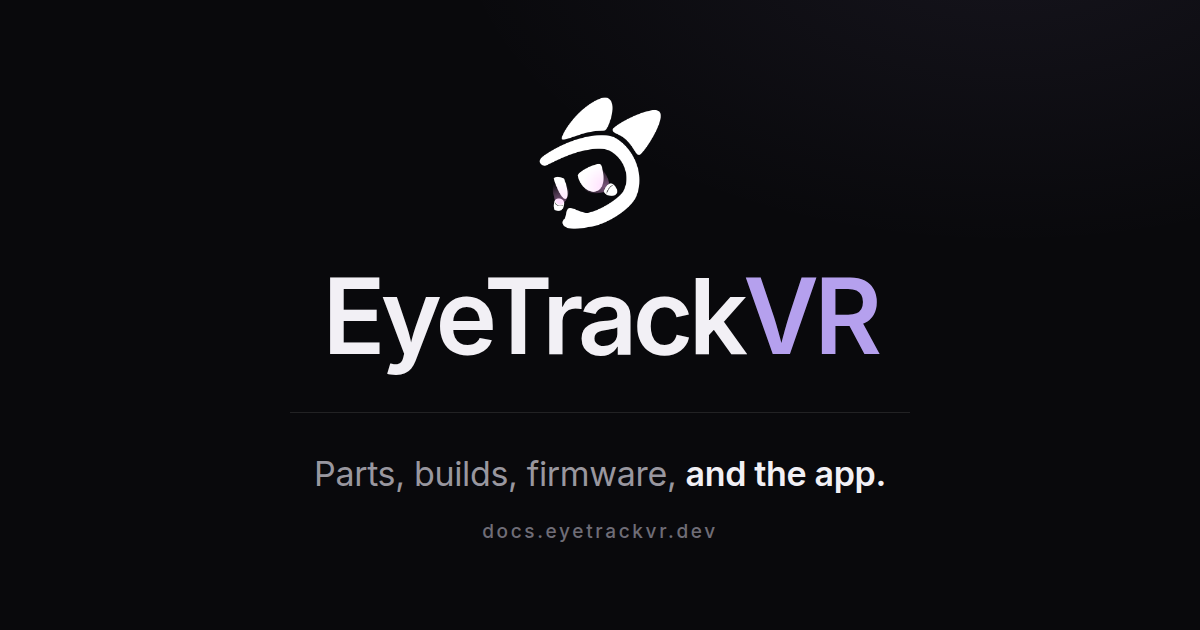
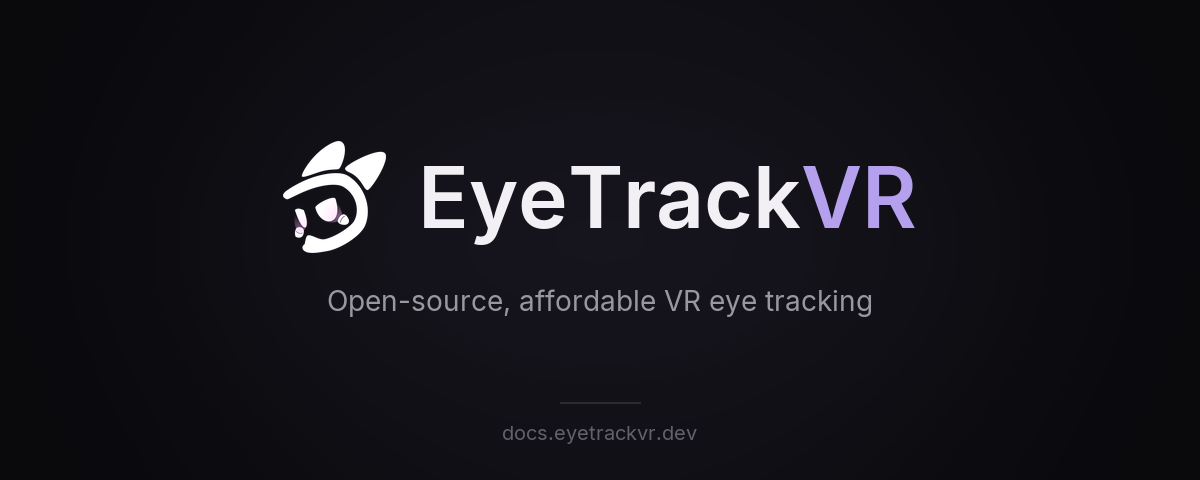
docs: update embed

Changed region(s): [[0.2158, 0.1562, 0.7708, 0.6562], [0.2467, 0.7188, 0.74, 0.7812], [0.4008, 0.8125, 0.5858, 0.9375]]

diff --git a/vitepress/docs/.vitepress/seo.js b/vitepress/docs/.vitepress/seo.js
@@ -224,7 +224,7 @@ export function transformHead({ pageData }) {
     ['meta', { property: 'og:description', content: description }],
     ['meta', { property: 'og:image', content: image }],
     ['meta', { property: 'og:image:width', content: '1200' }],
-    ['meta', { property: 'og:image:height', content: '630' }],
+    ['meta', { property: 'og:image:height', content: '480' }],
     ['meta', { property: 'og:image:alt', content: `EyeTrackVR: ${SITE.tagline}` }],
     ['meta', { name: 'twitter:card', content: 'summary_large_image' }],
     ['meta', { name: 'twitter:title', content: ogTitle }],

diff --git a/vitepress/scripts/make_og_image.py b/vitepress/scripts/make_og_image.py
@@ -1,13 +1,18 @@
 #!/usr/bin/env python3
 """Regenerate the social share card (docs/src/pages/public/og-image.png).
 
-1200x630 is the size Twitter/X and Discord render at, and the docs advertise
-`twitter:card: summary_large_image`, so this file must exist - without it every
-shared docs link renders as a blank card.
+The card is a short 1200x480 banner (2.5:1) so Discord/Slack embeds stay
+compact; the lockup is centred so Twitter/X's 1.91:1 crop never clips it.
+If you change W/H, update `og:image:width/height` in docs/.vitepress/seo.js.
+
+Fonts: Inter is preferred (matches the site). Point INTER_DIR at a folder
+holding Inter-*.ttf/otf (e.g. the extras/ttf folder of the Inter release zip),
+or install Inter system-wide; otherwise Segoe UI / Helvetica are used.
 
 Usage:  python3 scripts/make_og_image.py
 """
 
+import os
 from pathlib import Path
 
 from PIL import Image, ImageDraw, ImageFilter, ImageFont
@@ -16,105 +21,103 @@ HERE = Path(__file__).resolve().parent
 OUT = HERE.parent / "docs" / "src" / "pages" / "public" / "og-image.png"
 LOGO = HERE.parent / "docs" / "src" / "pages" / "public" / "logo_no_bg.png"
 
-W, H = 1200, 630
+W, H = 1200, 480
 
-ACCENT = (171, 90, 199)  # #ab5ac7, the docs accent purple
-PINK = (242, 166, 224)
-TEXT = (244, 242, 248)
-MUTED = (176, 168, 192)
+# theme.css tokens
+BG = (9, 9, 12)  # --etvr-bg
+LINE = (43, 43, 50)  # --etvr-line
+ACCENT = (181, 160, 238)  # --etvr-accent
+TEXT = (242, 240, 245)  # --etvr-text
+MUTED = (153, 151, 159)  # --etvr-muted
+FAINT = (98, 96, 106)
 
-FONTS = {
-    "black": [("/System/Library/Fonts/Supplemental/Arial Black.ttf", 0)],
-    "bold": [
-        ("/System/Library/Fonts/Avenir Next.ttc", 0),
+INTER_DIRS = [
+    os.environ.get("INTER_DIR", ""),
+    str(Path.home() / "Library/Fonts"),
+    "/Library/Fonts",
+    "/usr/share/fonts/opentype/inter",
+    "/usr/share/fonts/truetype/inter",
+    str(Path(os.environ.get("LOCALAPPDATA", "")) / "Microsoft/Windows/Fonts"),
+    "C:/Windows/Fonts",
+]
+
+FALLBACKS = {
+    "SemiBold": [
+        ("C:/Windows/Fonts/seguisb.ttf", 0),
         ("/System/Library/Fonts/HelveticaNeue.ttc", 1),
     ],
-    "regular": [
-        ("/System/Library/Fonts/SFNS.ttf", 0),
+    "Regular": [
+        ("C:/Windows/Fonts/segoeui.ttf", 0),
         ("/System/Library/Fonts/Helvetica.ttc", 0),
     ],
 }
 
 
-def font(kind: str, size: int) -> ImageFont.FreeTypeFont:
-    for path, index in FONTS[kind]:
+def font(weight: str, size: int) -> ImageFont.FreeTypeFont:
+    candidates = [
+        (str(Path(d) / f"Inter-{weight}.{ext}"), 0)
+        for d in INTER_DIRS
+        if d
+        for ext in ("ttf", "otf")
+    ]
+    for path, index in candidates + FALLBACKS[weight]:
         try:
             return ImageFont.truetype(path, size, index=index)
         except OSError:
             continue
-    return ImageFont.load_default()
+    return ImageFont.load_default(size)
 
 
 def background() -> Image.Image:
-    img = Image.new("RGB", (W, H))
-    top, bottom = (22, 15, 30), (13, 10, 20)
-    for y in range(H):
-        t = y / H
-        img.paste(tuple(round(a + (b - a) * t) for a, b in zip(top, bottom)), (0, y, W, y + 1))
-    glow = Image.new("RGB", (W, H), (0, 0, 0))
-    draw = ImageDraw.Draw(glow)
-    draw.ellipse((W - 620, -260, W + 320, 520), fill=(58, 26, 82))
-    draw.ellipse((-320, 300, 380, 900), fill=(30, 18, 56))
-    glow = glow.filter(ImageFilter.GaussianBlur(120))
-    return Image.blend(img, Image.blend(img, glow, 0.85), 0.75)
-
-
-def wrap(draw, text, font, max_width):
-    words, lines, line = text.split(), [], ""
-    for word in words:
-        trial = f"{line} {word}".strip()
-        if draw.textlength(trial, font=font) <= max_width:
-            line = trial
-        else:
-            lines.append(line)
-            line = word
-    if line:
-        lines.append(line)
-    return lines
+    img = Image.new("RGB", (W, H), BG)
+    # one faint accent glow behind the lockup, nothing else
+    glow = Image.new("L", (W, H), 0)
+    ImageDraw.Draw(glow).ellipse((W // 2 - 420, H // 2 - 170, W // 2 + 420, H // 2 + 170), fill=255)
+    glow = glow.filter(ImageFilter.GaussianBlur(140)).point(lambda v: v * 0.10)
+    img.paste(Image.new("RGB", (W, H), ACCENT), mask=glow)
+    return img
 
 
 def main() -> None:
     img = background()
     draw = ImageDraw.Draw(img)
 
+    word_font = font("SemiBold", 84)
+    tag_font = font("Regular", 28)
+    url_font = font("Regular", 20)
+
     logo = Image.open(LOGO).convert("RGBA")
-    logo.thumbnail((330, 330), Image.LANCZOS)
-    img.paste(logo, (64, (H - logo.height) // 2), logo)
+    logo = logo.crop(logo.getbbox())
+    logo.thumbnail((112, 112), Image.LANCZOS)
 
-    x = 452
-    max_w = W - x - 64
-    y = 96
+    # wordmark: "EyeTrack" + accent "VR", sitting next to the logo
+    left, right = "EyeTrack", "VR"
+    left_w = draw.textlength(left, font=word_font)
+    word_w = left_w + draw.textlength(right, font=word_font)
+    gap = 32
+    lockup_w = logo.width + gap + word_w
+    x = round((W - lockup_w) / 2)
 
-    draw.text((x, y), "EyeTrackVR", font=font("black", 78), fill=TEXT)
-    y += 104
+    ascent, descent = word_font.getmetrics()
+    cap_top, cap_bottom = word_font.getbbox("E")[1], word_font.getbbox("E")[3]
+    tagline = "Open-source, affordable VR eye tracking"
+    tag_h = tag_font.getbbox(tagline)[3]
+    block_h = max(logo.height, cap_bottom - cap_top) + 36 + tag_h
+    top = round((H - block_h) / 2) - 8
 
-    for line in wrap(draw, "Open-source, affordable VR eye tracking", font("bold", 40), max_w):
-        draw.text((x, y), line, font=font("bold", 40), fill=PINK)
-        y += 52
-    y += 14
-    draw.rounded_rectangle((x, y, x + 96, y + 5), radius=3, fill=ACCENT)
-    y += 34
+    row_h = max(logo.height, cap_bottom - cap_top)
+    img.paste(logo, (x, top + (row_h - logo.height) // 2), logo)
+    text_x = x + logo.width + gap
+    text_y = top + (row_h - (cap_bottom - cap_top)) // 2 - cap_top
+    draw.text((text_x, text_y), left, font=word_font, fill=TEXT)
+    draw.text((text_x + left_w, text_y), right, font=word_font, fill=ACCENT)
 
-    body = (
-        "Build your own eye tracker for VRChat, social VR and PCVR. "
-        "Open hardware, open firmware, OSC out of the box."
-    )
-    for line in wrap(draw, body, font("regular", 27), max_w):
-        draw.text((x, y), line, font=font("regular", 27), fill=MUTED)
-        y += 38
+    tag_y = top + row_h + 36
+    draw.text((W / 2, tag_y), tagline, font=tag_font, fill=MUTED, anchor="mt")
 
-    draw.text(
-        (x, H - 96),
-        "docs.eyetrackvr.dev",
-        font=font("bold", 30),
-        fill=ACCENT,
-    )
-    draw.text(
-        (x, H - 60),
-        "MIT licensed  ·  community built  ·  your data stays on your PC",
-        font=font("regular", 20),
-        fill=(124, 116, 142),
-    )
+    # footer: hairline + url
+    draw.line((W / 2 - 40, H - 78, W / 2 + 40, H - 78), fill=LINE, width=2)
+    draw.text((W / 2, H - 48), "docs.eyetrackvr.dev", font=url_font, fill=FAINT, anchor="mm")
 
     img.save(OUT, "PNG", optimize=True)
     print(f"wrote {OUT} ({OUT.stat().st_size / 1024:.0f} KB)")
